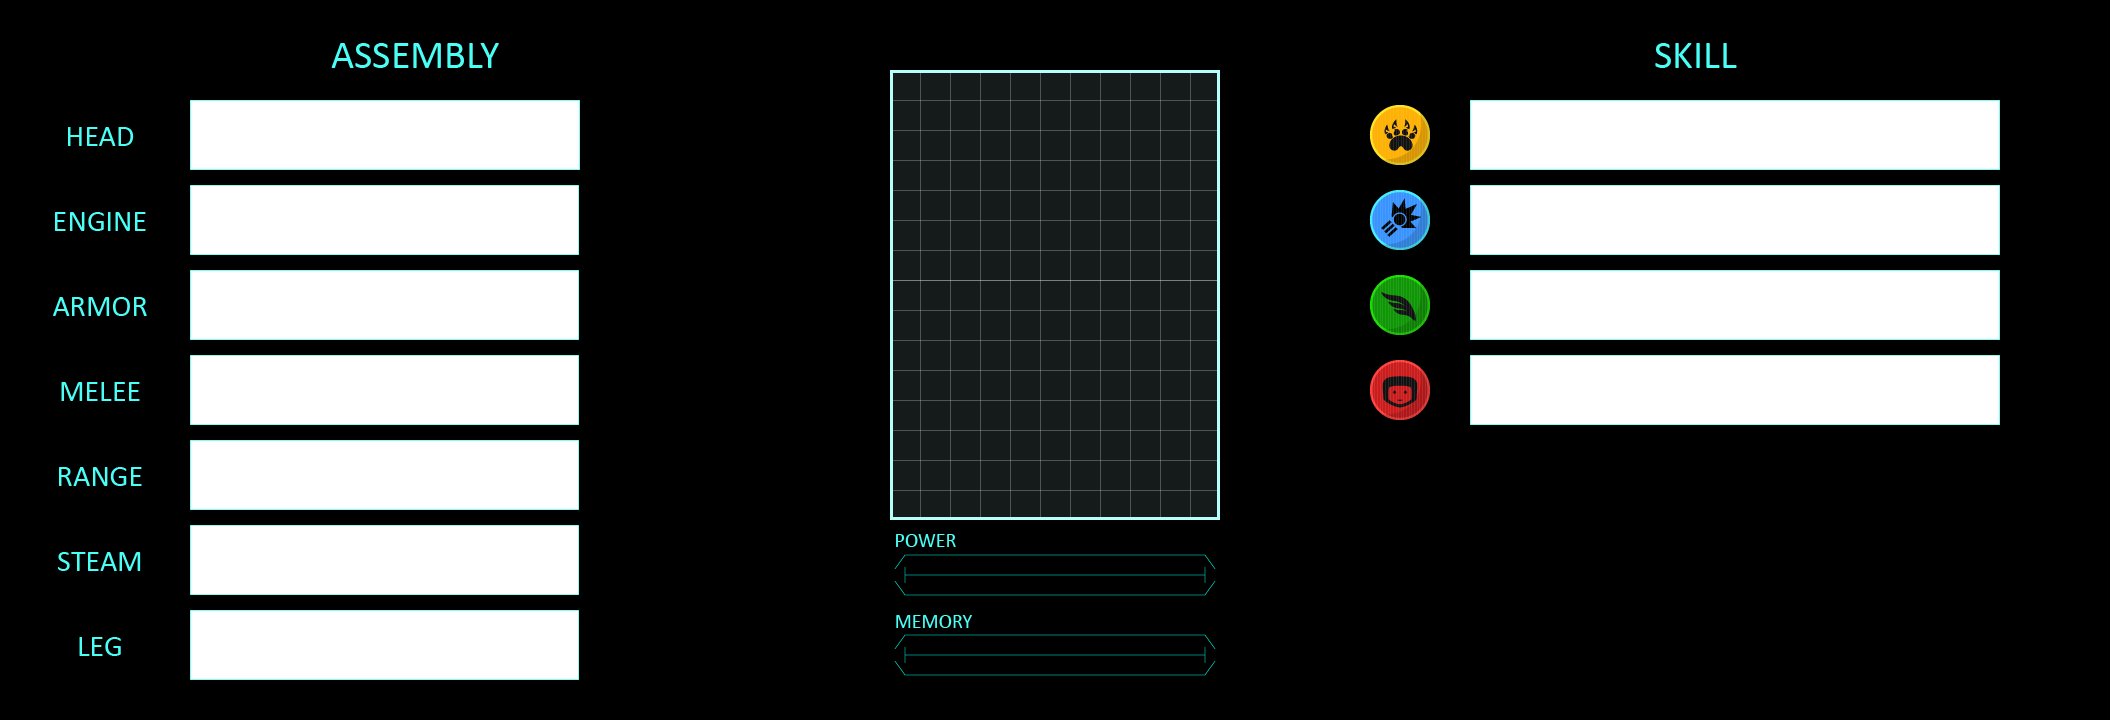
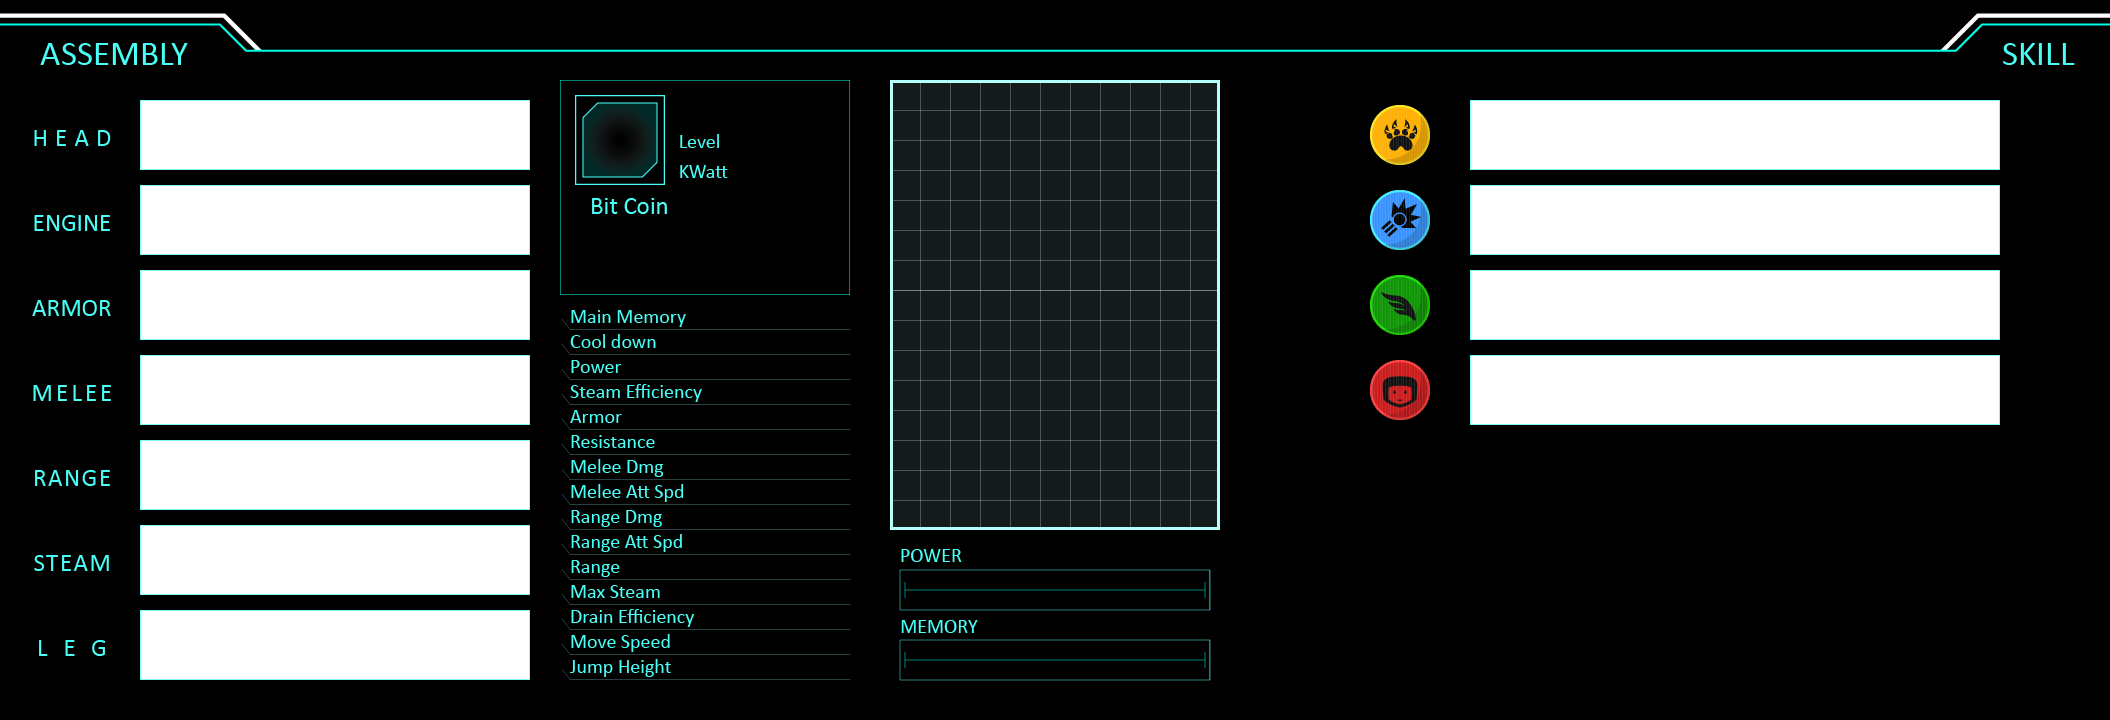
Assembly UI 개선

diff --git a/Robotopia/Classes/AssemblyUILayer.cpp b/Robotopia/Classes/AssemblyUILayer.cpp
@@ -37,11 +37,16 @@ bool AssemblyUILayer::init()
 	m_AssemblyBackground = GET_RESOURCE_MANAGER()->createSprite(ST_ASSEMBLY_BACKGROUND);
 	m_AssemblyFrame = GET_RESOURCE_MANAGER()->createSprite(ST_ASSEMBLY_FRAME);
 	m_ViewChangeArrow = GET_RESOURCE_MANAGER()->createSprite(ST_ASSEMBLY_ARROW);
-	m_EquipmentRect.setRect(190 * RESOLUTION, 40 * RESOLUTION, 390 * RESOLUTION, 580 * RESOLUTION);
-
+	m_EquipmentRect.setRect(140 * RESOLUTION, 40 * RESOLUTION, 390 * RESOLUTION, 580 * RESOLUTION);
 	setUIProperties(m_AssemblyBackground, cocos2d::Point::ZERO, cocos2d::Point::ZERO, RESOLUTION, true, 0);
 	setUIProperties(m_AssemblyFrame, cocos2d::Point::ZERO, cocos2d::Point::ZERO, RESOLUTION, true, 0);
 	setUIProperties(m_ViewChangeArrow, cocos2d::Point(0.5, 0.5), cocos2d::Point(1055, 360), 1.0f, true, 1);
+	
+	m_AssemblyLineLayer->setPosition(cocos2d::Point(0, 0));
+	m_StatusLayer->setPosition(cocos2d::Point(545, 0));
+	m_DisplayLayer->setPosition(cocos2d::Point(830, 0));
+	m_SkillLineLayer->setPosition(cocos2d::Point(1280, 0));
+
 	assemblyLayerButtonInit();
 
 	m_CurrentAssembly = ASSEMBLY_VIEW;
@@ -186,8 +191,8 @@ void AssemblyUILayer::assemblyLayerButtonInit()
 	m_ButtonConfirm = ButtonLayer::create();
 	m_ButtonCancel = ButtonLayer::create();
 	
-	m_ButtonConfirm->setButtonProperties(BUTTON_ASSEMBLY, cocos2d::Point(0 * RESOLUTION, 0), cocos2d::Point(1670, 90), "Confirm");
-	m_ButtonCancel->setButtonProperties(BUTTON_ASSEMBLY, cocos2d::Point(0 * RESOLUTION, 0), cocos2d::Point(1900, 90), "Cancel");
+	m_ButtonConfirm->setButtonProperties(BUTTON_ASSEMBLY_CONFIRM, cocos2d::Point(0 * RESOLUTION, 0), cocos2d::Point(1670, 90), "Confirm");
+	m_ButtonCancel->setButtonProperties(BUTTON_ASSEMBLY_CONFIRM, cocos2d::Point(0 * RESOLUTION, 0), cocos2d::Point(1900, 90), "Cancel");
 	
 	m_ButtonConfirm->setButtonFunc(std::bind(&AssemblyUILayer::confirmAssembly, this));
 	m_ButtonCancel->setButtonFunc(std::bind(&AssemblyUILayer::toTitleScene, this));
@@ -200,7 +205,7 @@ void AssemblyUILayer::moveContainer(bool moveLeft, cocos2d::Node* container, coc
 {
 	if (moveLeft)
 	{
-		if (container->getBoundingBox().getMaxX() - 110 > containerRect.getMaxX())
+		if (container->getBoundingBox().getMaxX() - 140 > containerRect.getMaxX())
 		{
 			container->setPosition(cocos2d::Point(container->getPosition().x - 15, container->getPosition().y));
 		}
@@ -208,7 +213,7 @@ void AssemblyUILayer::moveContainer(bool moveLeft, cocos2d::Node* container, coc
 	}
 	else
 	{
-		if (container->getBoundingBox().getMinX() * RESOLUTION - 15 < containerRect.getMinX())
+		if (container->getBoundingBox().getMinX() * RESOLUTION < containerRect.getMinX())
 		{
 			container->setPosition(cocos2d::Point(container->getPosition().x + 15, container->getPosition().y));
 		}

diff --git a/Robotopia/Classes/AssemblyLineLayer.cpp b/Robotopia/Classes/AssemblyLineLayer.cpp
@@ -38,13 +38,13 @@ void AssemblyLineLayer::initEquipmentContainer()
 	m_SteamContainer = cocos2d::Node::create();
 	m_LegContainer = cocos2d::Node::create();
 
-	m_HeadContainer->setPosition(cocos2d::Point(190, 550));
-	m_EngineContainer->setPosition(cocos2d::Point(190, 465));
-	m_ArmorContainer->setPosition(cocos2d::Point(190, 380));
-	m_MeleeContainer->setPosition(cocos2d::Point(190, 295));
-	m_RangeContainer->setPosition(cocos2d::Point(190, 210));
-	m_SteamContainer->setPosition(cocos2d::Point(190, 125));
-	m_LegContainer->setPosition(cocos2d::Point(190, 40));
+	m_HeadContainer->setPosition(cocos2d::Point(140, 550));
+	m_EngineContainer->setPosition(cocos2d::Point(140, 465));
+	m_ArmorContainer->setPosition(cocos2d::Point(140, 380));
+	m_MeleeContainer->setPosition(cocos2d::Point(140, 295));
+	m_RangeContainer->setPosition(cocos2d::Point(140, 210));
+	m_SteamContainer->setPosition(cocos2d::Point(140, 125));
+	m_LegContainer->setPosition(cocos2d::Point(140, 40));
 
 	this->addChild(m_HeadContainer);
 	this->addChild(m_EngineContainer);
@@ -54,13 +54,13 @@ void AssemblyLineLayer::initEquipmentContainer()
 	this->addChild(m_SteamContainer);
 	this->addChild(m_LegContainer);
 
-	m_HeadRect.setRect(190 * RESOLUTION, 550 * RESOLUTION, 390 * RESOLUTION, 70 * RESOLUTION);
-	m_EngineRect.setRect(190 * RESOLUTION, 465 * RESOLUTION, 390 * RESOLUTION, 70 * RESOLUTION);
-	m_ArmorRect.setRect(190 * RESOLUTION, 380 * RESOLUTION, 390 * RESOLUTION, 70 * RESOLUTION);
-	m_MeleeRect.setRect(190 * RESOLUTION, 295 * RESOLUTION, 390 * RESOLUTION, 70 * RESOLUTION);
-	m_RangeRect.setRect(190 * RESOLUTION, 210 * RESOLUTION, 390 * RESOLUTION, 70 * RESOLUTION);
-	m_SteamRect.setRect(190 * RESOLUTION, 125 * RESOLUTION, 390 * RESOLUTION, 70 * RESOLUTION);
-	m_LegRect.setRect(190 * RESOLUTION, 40 * RESOLUTION, 390 * RESOLUTION, 70 * RESOLUTION);
+	m_HeadRect.setRect(140 * RESOLUTION, 550 * RESOLUTION, 390 * RESOLUTION, 70 * RESOLUTION);
+	m_EngineRect.setRect(140 * RESOLUTION, 465 * RESOLUTION, 390 * RESOLUTION, 70 * RESOLUTION);
+	m_ArmorRect.setRect(140 * RESOLUTION, 380 * RESOLUTION, 390 * RESOLUTION, 70 * RESOLUTION);
+	m_MeleeRect.setRect(140 * RESOLUTION, 295 * RESOLUTION, 390 * RESOLUTION, 70 * RESOLUTION);
+	m_RangeRect.setRect(140 * RESOLUTION, 210 * RESOLUTION, 390 * RESOLUTION, 70 * RESOLUTION);
+	m_SteamRect.setRect(140 * RESOLUTION, 125 * RESOLUTION, 390 * RESOLUTION, 70 * RESOLUTION);
+	m_LegRect.setRect(140 * RESOLUTION, 40 * RESOLUTION, 390 * RESOLUTION, 70 * RESOLUTION);
 }
 
 void AssemblyLineLayer::displayEquipments()

diff --git a/Robotopia/Classes/ButtonLayer.cpp b/Robotopia/Classes/ButtonLayer.cpp
@@ -56,8 +56,11 @@ void ButtonLayer::setButtonProperties(ButtonType buttonType, cocos2d::Point pare
 		break;
 	case BUTTON_OPTION:
 		break;
-	case BUTTON_ASSEMBLY:
-		m_ButtonSprite = GET_RESOURCE_MANAGER()->createSprite(ST_ASSEMBLY_BUTTON_DEFAULT);
+	case BUTTON_UPGRADE:
+		m_ButtonSprite = GET_RESOURCE_MANAGER()->createSprite(ST_ASSEMBLY_BUTTON_UPGRADE_DEFAULT);
+		break;
+	case BUTTON_ASSEMBLY_CONFIRM:
+		m_ButtonSprite = GET_RESOURCE_MANAGER()->createSprite(ST_ASSEMBLY_BUTTON_CONFIRM_DEFAULT);
 		break;
 	case BUTTON_GAMEMENU:
 		m_ButtonSprite = GET_RESOURCE_MANAGER()->createSprite(ST_GAMEMENU_BUTTON_DEFAULT);
@@ -83,14 +86,24 @@ void ButtonLayer::setButtonOver(bool onButton)
 		break;
 	case BUTTON_OPTION:
 		break;
-	case BUTTON_ASSEMBLY:
+	case BUTTON_UPGRADE:
 		if (onButton)
 		{
-			m_ButtonSprite->setTexture(GET_RESOURCE_MANAGER()->createSprite(ST_ASSEMBLY_BUTTON_SELECT)->getTexture());
+			m_ButtonSprite->setTexture(GET_RESOURCE_MANAGER()->createSprite(ST_ASSEMBLY_BUTTON_UPGRADE_SELECT)->getTexture());
 		}
 		else
 		{
-			m_ButtonSprite->setTexture(GET_RESOURCE_MANAGER()->createSprite(ST_ASSEMBLY_BUTTON_DEFAULT)->getTexture());
+			m_ButtonSprite->setTexture(GET_RESOURCE_MANAGER()->createSprite(ST_ASSEMBLY_BUTTON_UPGRADE_DEFAULT)->getTexture());
+		}
+		break;
+	case BUTTON_ASSEMBLY_CONFIRM:
+		if (onButton)
+		{
+			m_ButtonSprite->setTexture(GET_RESOURCE_MANAGER()->createSprite(ST_ASSEMBLY_BUTTON_CONFIRM_SELECT)->getTexture());
+		}
+		else
+		{
+			m_ButtonSprite->setTexture(GET_RESOURCE_MANAGER()->createSprite(ST_ASSEMBLY_BUTTON_CONFIRM_DEFAULT)->getTexture());
 		}
 		break;
 	case BUTTON_GAMEMENU:

diff --git a/Robotopia/Classes/ItemType.h b/Robotopia/Classes/ItemType.h
@@ -31,8 +31,8 @@ enum EquipmentType
 enum HeadList
 {
 	HL_START = -1,
-	HL_SINGLE,
-	HL_DOUBLE,
+	HL_PENTIUM,
+	HL_DUALCORE,
 	HL_TRIPLE,
 	HL_QUAD,
 	HL_HEXA,
@@ -50,8 +50,8 @@ enum HeadList
 enum EngineList
 {
 	EL_START = -1,
-	EL_FIRST,
-	EL_SECOND,
+	EL_STEAM,
+	EL_NUCLEAR,
 	EL_THIRD,
 	EL_FORTH,
 	EL_AAA,
@@ -63,8 +63,8 @@ enum EngineList
 enum ArmorList
 {
 	AL_START = -1,
-	AL_FIRST,
-	AL_SECOND,
+	AL_PLASTIC,
+	AL_COPPER,
 	AL_THIRD,
 	AL_FORTH,
 	AL_FIFTH,
@@ -76,8 +76,8 @@ enum ArmorList
 enum MeleeList
 {
 	ML_START = -1,
-	ML_FIRST,
-	ML_SECOND,
+	ML_HAMMER,
+	ML_ZEALOTBLADE,
 	ML_THIRD,
 	ML_FORTH,
 	ML_FIFTH,
@@ -89,8 +89,8 @@ enum MeleeList
 enum RangeList
 {
 	RL_START = -1,
-	RL_FIRST,
-	RL_SECOND,
+	RL_STEAMGUN,
+	RL_60MMMORTAR,
 	RL_THIRD,
 	RL_FORTH,
 	RL_FIFTH,
@@ -101,19 +101,21 @@ enum RangeList
 enum SteamContainerList
 {
 	SCL_START = -1,
-	SCL_FIRST,
-	SCL_SECOND,
+	SCL_MASSPRODUCTIONTYPE,
+	SCL_IMPROVEDMODEL,
 	SCL_THIRD,
 	SCL_FORTH,
 	SCL_FIFTH,
+	SCL_SIXTH,
+	SCL_SEVENTH,
 	SCL_END,
 };
 
 enum LegList
 {
 	LL_START = -1,
-	LL_FIRST,
-	LL_SECOND,
+	LL_LEWIS,
+	LL_BOLT,
 	LL_THIRD,
 	LL_FORTH,
 	LL_FIFTH,

diff --git a/Robotopia/Classes/ResourceType.h b/Robotopia/Classes/ResourceType.h
@@ -116,9 +116,11 @@ enum SpriteType
 	ST_ASSEMBLY_ICON_CONTENT_DEFAULT,
 	ST_ASSEMBLY_ICON_FRAME_CLICKED,
 	ST_ASSEMBLY_ICON_FRAME_LOCKED,
-	ST_ASSEMBLY_BUTTON_DEFAULT,
-	ST_ASSEMBLY_BUTTON_SELECT,
+	ST_ASSEMBLY_BUTTON_CONFIRM_DEFAULT,
+	ST_ASSEMBLY_BUTTON_CONFIRM_SELECT,
 	ST_ASSEMBLY_LABEL_FRAME,
+	ST_ASSEMBLY_BUTTON_UPGRADE_DEFAULT,
+	ST_ASSEMBLY_BUTTON_UPGRADE_SELECT,
 	ST_ASSEMBLY_END,
 	
 	ST_BLOCK_1ST_START = 3000,

diff --git a/Robotopia/Classes/UIType.h b/Robotopia/Classes/UIType.h
@@ -27,7 +27,8 @@ enum ButtonType
 	NO_BUTTON = 0,
 	BUTTON_TITLEMENU,
 	BUTTON_OPTION,
-	BUTTON_ASSEMBLY,
+	BUTTON_UPGRADE,
+	BUTTON_ASSEMBLY_CONFIRM,
 	BUTTON_GAMEMENU,
 };
 
